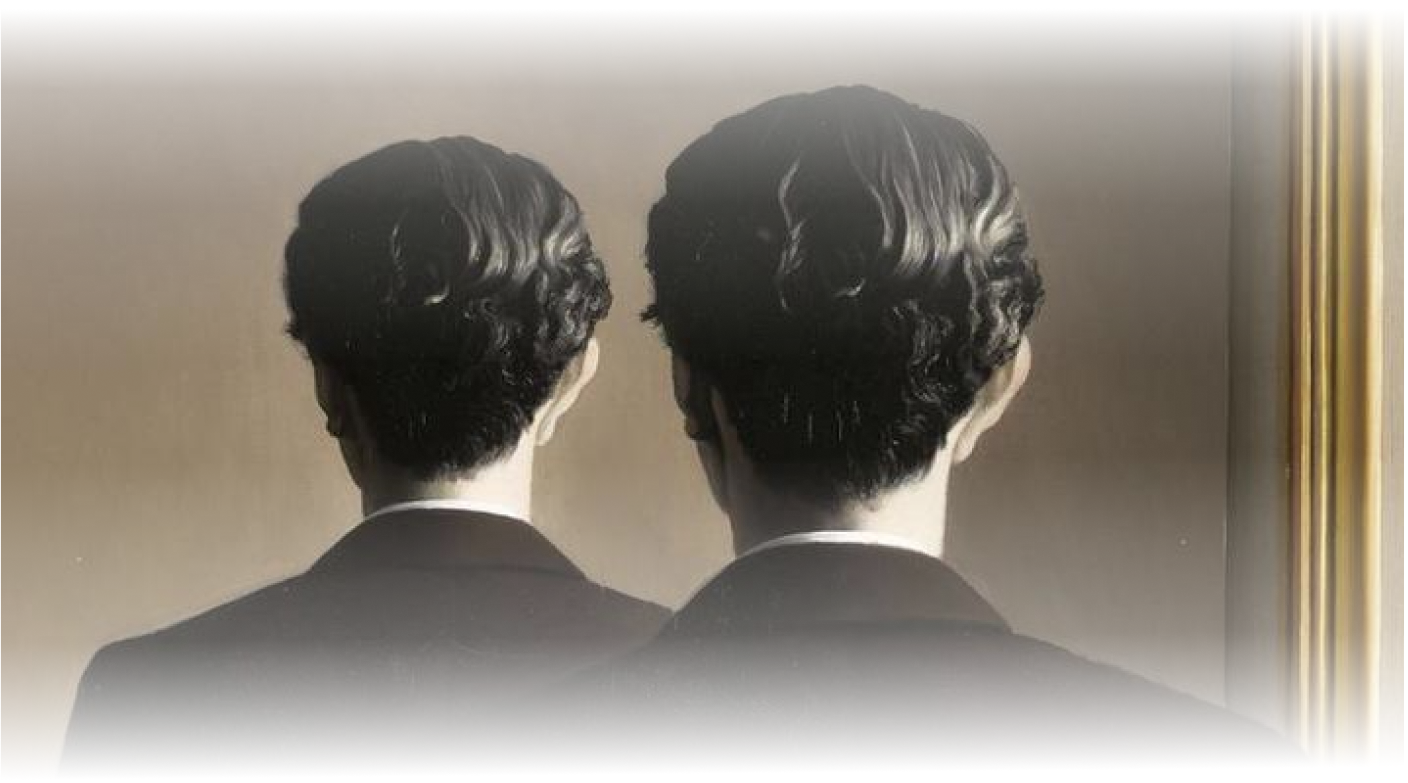
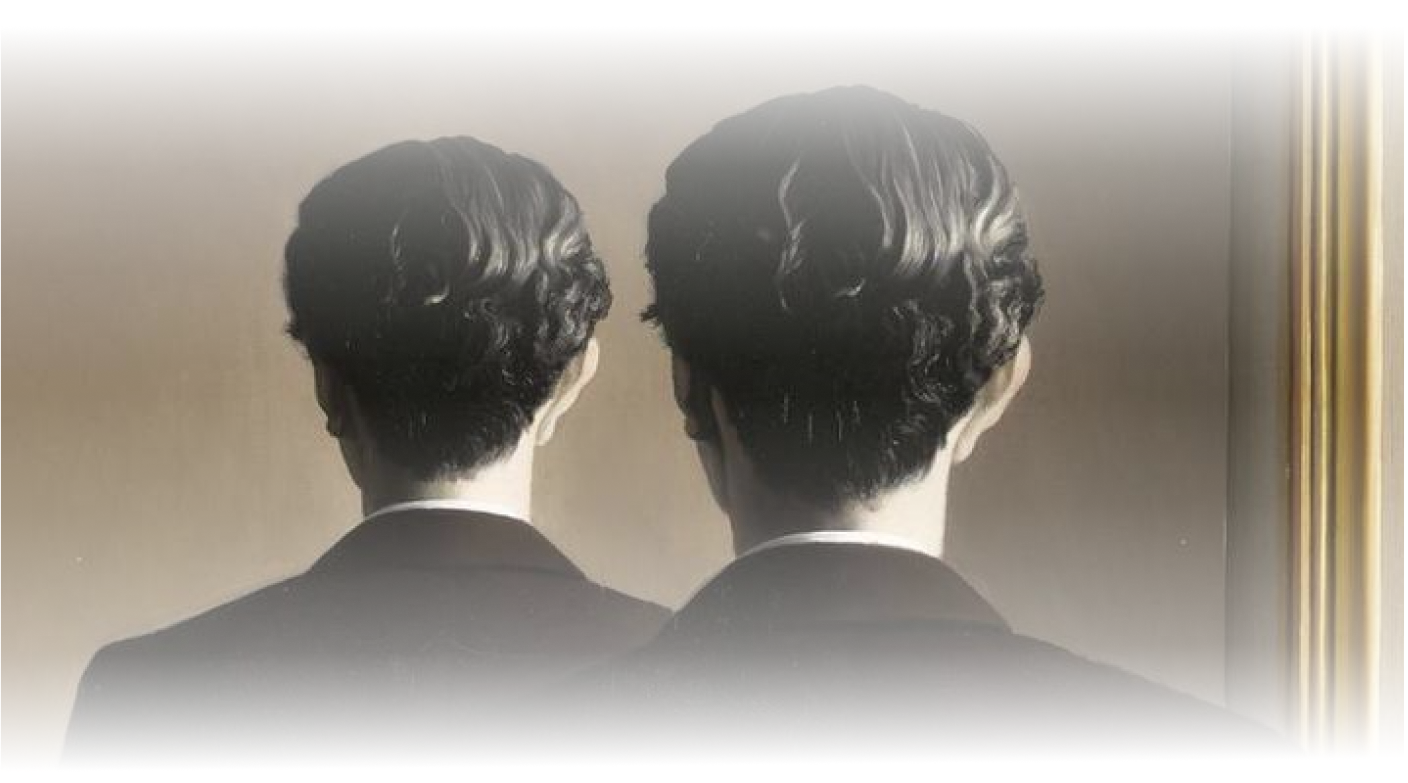
cinema background

diff --git a/css/style.css b/css/style.css
@@ -11,7 +11,8 @@
   --color-Primary-dark: #234361;
   --color-Primary-Faded: radial-gradient(66.7% 66.7% at 50% 33.3%, #E4F0FB 0%, #E4F0FB 35.94%, rgba(228, 240, 251, 0.674778) 78.13%, rgba(228, 240, 251, 0) 100%);
   --color-Primary-dark-gradient: linear-gradient(78deg, rgba(72, 113, 152, 0.79) 0%, rgba(25, 56, 92, 0.98) 77.31%);
-  --color-Primary-dark-gradient-overlay: linear-gradient(78deg, rgba(72, 113, 152, 0.8) 0%, rgba(25, 56, 92, 0.9) 50.31%);
+  --color-Primary-dark-gradient-overlay:
+    linear-gradient(78deg, rgba(72, 113, 152, 0.8) 0%, rgba(25, 56, 92, 0.9) 50.31%);
   --color-Primary-light-gradient: radial-gradient(84.65% 84.65% at 50% 50%, #FFF 0%, #FFF 51%, rgba(255, 255, 255, 0) 81.78%);
   --color-Primary-gradient: radial-gradient(66.7% 66.7% at 50% 33.3%, #E4F0FB 0%, #E4F0FB 35.94%, rgba(228, 240, 251, 0.674778) 78.13%, rgba(228, 240, 251, 0) 100%);
   --color-Primary-gradient-o:
@@ -1771,13 +1772,11 @@ li.flyout-mega > a:hover + .flyout-mega-wrap {
 .academey-cinemae {
   overflow: hidden;
   grid-column: 1/-1;
-  height: 100vh;
+  height: 110vh;
   position: relative;
   display: flex;
-  background-image: var(--color-Primary-light);
-  background-repeat: no-repeat;
   flex-direction: column;
-  margin: var(--space-4) 0 var(--space-8);
+  margin: 0 0 var(--space-8);
 }
 @media only screen and (max-width: 67rem) {
   .academey-cinemae {
@@ -1814,7 +1813,7 @@ li.flyout-mega > a:hover + .flyout-mega-wrap {
   width: 100%;
   height: 100%;
   object-fit: cover;
-  filter: grayscale(100%);
+  filter: hue-rotate(165deg);
 }
 @media only screen and (max-width: 140rem) {
   .academey-cinemae-wrapper .cinema-curve {
@@ -2522,7 +2521,7 @@ main {
   grid-template-columns: var(--space-4-8) 1fr var(--space-4-8);
   min-height: 100vh;
   fill-opacity: 0.3;
-  grid-row-gap: var(--space-8);
+  grid-row-gap: var(--space-6-4);
   position: relative;
   overflow: hidden;
 }

diff --git a/sass/base/_base.scss b/sass/base/_base.scss
@@ -23,7 +23,8 @@
 
   --color-Primary-Faded                 : radial-gradient(66.7% 66.7% at 50% 33.3%, #E4F0FB 0%, #E4F0FB 35.94%, rgba(228, 240, 251, 0.674778) 78.13%, rgba(228, 240, 251, 0) 100%);;
   --color-Primary-dark-gradient         : linear-gradient(78deg, rgba(72, 113, 152, 0.79) 0%, rgba(25, 56, 92, 0.98) 77.31%);
-  --color-Primary-dark-gradient-overlay : linear-gradient(78deg, rgba(72, 113, 152, 0.8) 0%, rgba(25, 56, 92, 0.9) 50.31%);
+  --color-Primary-dark-gradient-overlay :
+    linear-gradient(78deg, rgba(72, 113, 152, 0.8) 0%, rgba(25, 56, 92, 0.9) 50.31%);
   --color-Primary-light-gradient        : radial-gradient(84.65% 84.65% at 50% 50%, #FFF 0%, #FFF 51%, rgba(255, 255, 255, 0) 81.78%);
   --color-Primary-gradient              : radial-gradient(66.7% 66.7% at 50% 33.3%, #E4F0FB 0%, #E4F0FB 35.94%, rgba(228, 240, 251, 0.674778) 78.13%, rgba(228, 240, 251, 0) 100%);
   --color-Primary-gradient-o            :

diff --git a/sass/components/home/academy-cinemae-slider.scss b/sass/components/home/academy-cinemae-slider.scss
@@ -1,14 +1,12 @@
 .academey-cinemae {
   overflow       : hidden;
   grid-column    : 1/-1;
-  height         : 100vh;
+  height         : 110vh;
   position       : relative;
   display        : flex;
-  background-image    : var(--color-Primary-light);
   //filter: hue-rotate(30deg);
-  background-repeat: no-repeat;
   flex-direction : column;
-  margin         : var(--space-4) 0 var(--space-8);
+  margin         : 0 0 var(--space-8);
   //@include glassBox;
 
 
@@ -50,7 +48,7 @@
         width : 100%;
         height : 100%;
         object-fit: cover;
-        filter: grayscale(100%)
+        filter: hue-rotate(165deg);
         }
       @media only screen and (max-width : 140rem) {
         bottom      : -30rem;

diff --git a/sass/pages/_Home.scss b/sass/pages/_Home.scss
@@ -3,7 +3,7 @@ main {
   grid-template-columns : var(--space-4-8) 1fr var(--space-4-8);
   min-height            : 100vh;
   fill-opacity          : .3;
-  grid-row-gap          : var(--space-8);
+  grid-row-gap          : var(--space-6-4);
   position              : relative;
   overflow              : hidden;
   }
